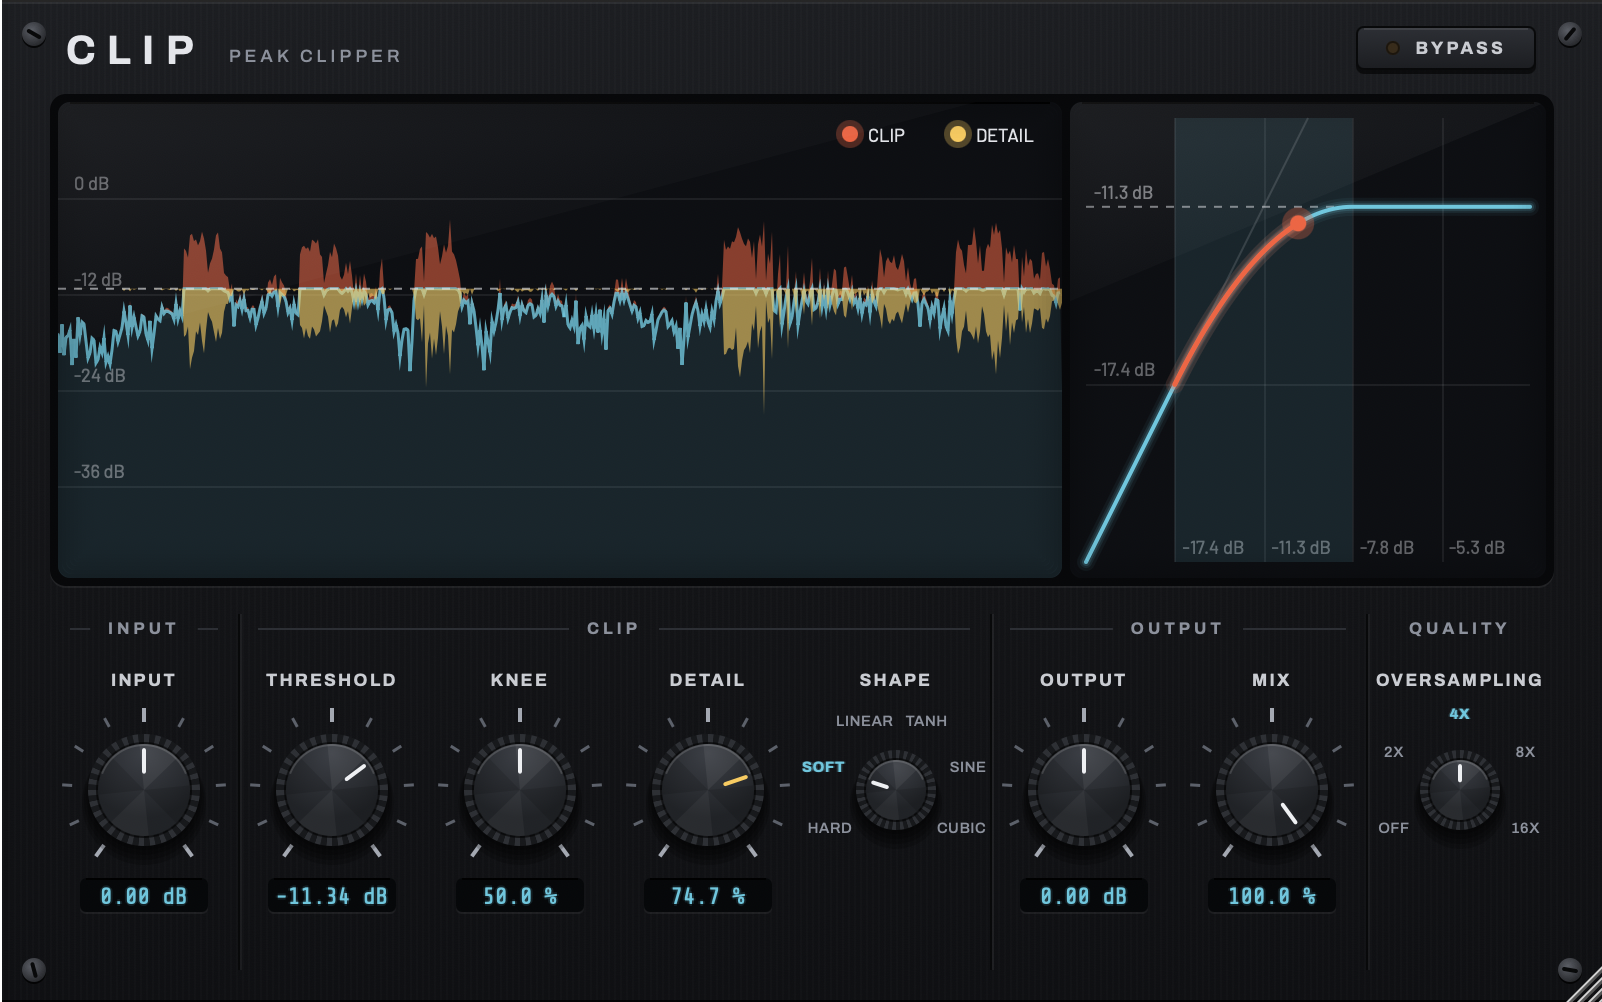
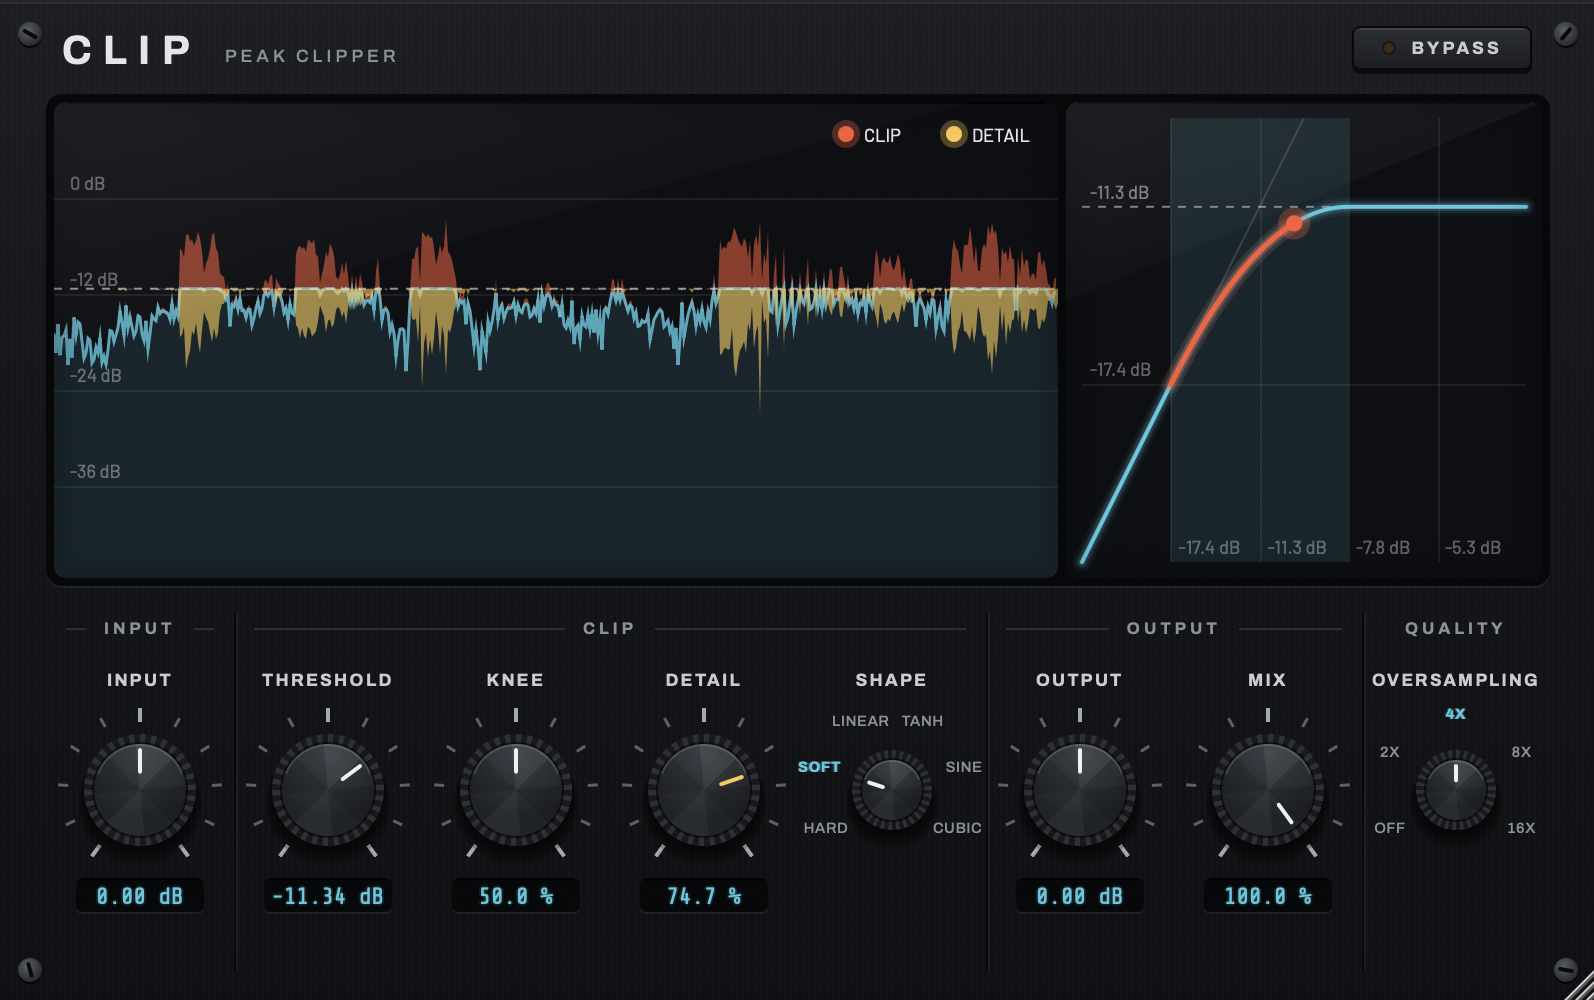
restructure projects tab into clickable cards with project subpages

diff --git a/src/components/Projects.jsx b/src/components/Projects.jsx
@@ -1,133 +1,39 @@
-import { useState } from "react"
-import eqThumb from "../assets/projects/eq.png?w=1000&format=webp"
-import clipThumb from "../assets/projects/clip.png?w=1000&format=webp"
-import cr02Thumb from "../assets/projects/cr02.png?w=1000&format=webp"
+import { Link } from "react-router-dom"
+import { projects } from "../data/projects"
 
 export default function Projects() {
-    const projects = [
-        {
-          title: "MixBusMaster: Learning EQ Plugin",
-          video: "https://www.loom.com/embed/d9443a8b08584f2babe589a8aa9ed656",
-          thumbnail: eqThumb,
-          paragraphs: [
-            "A 6 band EQ (AU/VST3) with a tilt filter, per band dynamics, and a two track spectrum analyzer. Its Learn mode listens to your track and a reference on the sidechain, then dials in the band settings that move your sound toward the reference.",
-            "Learn runs a small neural network I trained in PyTorch, inferenced with hand written C++ and no ML runtime, then refined with a Levenberg-Marquardt solver. Amount and Smooth controls re-run the match live. Built in C++20 with JUCE 8, with tests that assert the audio thread never allocates."
-          ]
-        },
-        {
-          title: "CLIP: Clipper Plugin",
-          video: "https://www.loom.com/embed/e48e8fe26f68457fa41ff63c34188500",
-          thumbnail: clipThumb,
-          paragraphs: [
-            "A hard/soft clipper (AU/VST3) with six transfer curves (Hard, Soft, Linear, Tanh, Sine, Cubic), adjustable knee, and a Detail control that keeps high end riding on clipped peaks. A live transfer curve and peak history display show exactly what is being clipped.",
-            "Aliasing is kept down with antiderivative antialiasing (ADAA) plus up to 16x linear phase oversampling, with Thiran allpass alignment so the dry/wet mix stays sample accurate. The DSP is header only and unit tested, and CI runs pluginval at strictness 10 on every push."
-          ]
-        },
-        {
-          title: "CR-02: Creative IR Convolution Plugin",
-          video: "https://www.loom.com/embed/c59c9b0de799436fa1f1c3f1953a0ecf",
-          thumbnail: cr02Thumb,
-          paragraphs: [
-            "An impulse response convolution plugin (AU/VST3) for reverbs and cabinet sims that also treats the IR as something to play with. Load any IR or pick from 46 built in ones, then reverse, stretch, chop, and degrade it to get textures that regular effects on the audio can't.",
-            "CHOP slices the IR into stutters, reverses, drops, and swaps, with seeded patterns that recall with the session and an optional BPM synced grid. AGE, SATURATE, WOBBLE, DOWNSAMPLE, and CRUSH degrade the IR itself. Every change rebuilds the IR off the audio thread with automatic loudness matching, so tweaking never causes level jumps."
-          ]
-        },
-        {
-          title: "CHOPPER: Sample Chopping Web App",
-          video: "https://samplechopper-umber.vercel.app",
-          link: "https://samplechopper-umber.vercel.app",
-          paragraphs: [
-            "A web app that turns full songs into ready to use loops. Upload audio, choose a bar length, and CHOPPER detects tempo and onsets, cuts bar accurate loops, and returns them as a zip.",
-            "The Python backend (FastAPI, librosa) estimates local BPM per loop and can snap loop boundaries to kicks and snares using band limited spectral flux. Jobs run in a rate limited queue on Render, with Supabase handling anonymous auth, job tracking, and storage. The React/TypeScript frontend features a custom 3D waveform renderer."
-          ]
-        },
-        {
-          title:"Synthesizer Plugin",
-          video: "https://www.youtube.com/embed/h5dY_hA8ZRw?si=jWCmTPnqDzYbA6Bx",
-          paragraphs: [
-            "This is a simple synthesizer VST/AU equipped with ADSR sliders, the usual oscillator and filter types, as well as frequency and filter modulation.",
-            "The video features a quick improvisation to demo some sounds of the synth. I also took the liberty of automating the synths' filter frequency and some panning!"
-          ]
-        },
-        {
-          title: "3D Spectrogram Visualizer",
-          video: "https://www.youtube.com/embed/WbGTJbrw83U?si=xbWaqE9aO7AsLnuJ",
-          paragraphs: [
-            "Created using Python (pydub for audio data, mpl_toolkits for modeling). The demo features an unmastered song of mine."
-          ]
-        },
-        {
-          title: "Denoising DNN for Acoustic Guitar",
-          video: "https://player.vimeo.com/video/1058779211?h=8370fcaaaa",
-          paragraphs: [
-            "I have developed and trained a neural network aimed to remove background and string noise from acoustic guitar recordings.",
-            "Its architecture consists of a convolution layer for feature extraction, BiLSTM for sequential modeling, and an attention layer.",
-            "It is trained on pairs of noisy and clean STFT data from recordings: This process was very involved with my limited computational resources and access to data: I mixed in string noise post recording to construct 100 noisy recordings and performed additional data augmentation with various impulse responses and background noise. While there is some success with this model, this should be done again with a unique dataset that is magnitudes larger to increase generalizability of the DNN."
-          ]
-        },
-        {
-          title:"Sampler",
-          video: "https://www.youtube.com/embed/YqVmvuLJy_k?si=WfnKxLKGuKfM3oRO",
-          paragraphs: [
-            "Straightforward stereo-supported plugin to play audio samples as an instrument, includes ADSR capabilities as well."
-          ]
-        }
-
-      ]
-
-   
     return (
-    <div className="flex flex-col gap-30 py-24 px-4 md:px-12 py-12">
-        {projects.map((project, i) => (
-        <div key={i} className="flex flex-col md:flex-row gap-8 items-start">
-            {/* video column */}
-            <div className="w-full md:w-1/2 aspect-video">
-            <ProjectVideo project={project} />
+    <div className="grid grid-cols-1 md:grid-cols-2 gap-8 max-w-6xl mx-auto py-24 px-4 md:px-12">
+        {projects.map((project) => (
+        <Link
+            key={project.slug}
+            to={`/projects/${project.slug}`}
+            className="group flex flex-col overflow-hidden rounded-2xl border border-white/10 bg-white/[0.03] transition duration-300 hover:-translate-y-1 hover:border-white/25 hover:bg-white/[0.06] hover:shadow-lg hover:shadow-black/40"
+        >
+            <CardThumbnail project={project} />
+            <div className="flex flex-col gap-3 p-6 flex-1">
+                <h2 className="text-xl font-bold text-gray-200">{project.title}</h2>
+                <p className="text-gray-400 text-sm line-clamp-3">{project.paragraphs[0]}</p>
+                <span className="mt-auto pt-2 text-sm text-gray-500 transition duration-300 group-hover:text-gray-200 group-hover:translate-x-1">
+                    View project &rarr;
+                </span>
             </div>
-
-            {/* text column */}
-            <div className="w-full md:w-1/2 flex flex-col gap-4">
-            <h2 className="text-xl font-bold text-gray-300">{project.title}</h2>
-            {project.link && (
-                <a href={project.link} target="_blank" rel="noopener noreferrer" className="text-gray-400 underline hover:text-gray-200">
-                Try it live
-                </a>
-            )}
-            {project.paragraphs.map((p, j) => (
-                <p key={j} className="text-gray-300 text-base">{p}</p>
-            ))}
-            </div>
-        </div>
+        </Link>
         ))}
     </div>
     )
 }
 
-function ProjectVideo({ project }) {
-    const [playing, setPlaying] = useState(false)
+function CardThumbnail({ project }) {
+    const image = project.preview ?? project.thumbnail
 
-    if (project.thumbnail && !playing) return (
-        <button
-            onClick={() => setPlaying(true)}
-            className="group relative w-full h-full rounded-lg overflow-hidden bg-neutral-900 cursor-pointer"
-            aria-label={`Play ${project.title} demo`}
-        >
-            <img src={project.thumbnail} alt={project.title} loading="lazy" className="w-full h-full object-contain" />
-            <span className="absolute inset-0 flex items-center justify-center bg-black/20 group-hover:bg-black/40 transition-colors">
-                <span className="w-16 h-16 rounded-full bg-white/90 flex items-center justify-center pl-1 text-2xl text-black">&#9654;</span>
-            </span>
-        </button>
+    if (!image) return (
+        <div className="aspect-video bg-gradient-to-br from-neutral-800 to-neutral-950" />
     )
 
     return (
-        <iframe
-            src={project.thumbnail ? `${project.video}?autoplay=1` : project.video}
-            loading="lazy"
-            width="200"
-            height="100"
-            className="w-full h-full rounded-lg"
-            allow="autoplay; fullscreen; picture-in-picture"
-            allowFullScreen
-        />
+        <div className="aspect-video overflow-hidden bg-neutral-900">
+            <img src={image} alt={project.title} loading="lazy" className="w-full h-full object-contain transition duration-500 group-hover:scale-105" />
+        </div>
     )
 }

diff --git a/src/data/projects.js b/src/data/projects.js
@@ -1,0 +1,87 @@
+import eqThumb from "../assets/projects/eq.png?w=1000&format=webp"
+import clipThumb from "../assets/projects/clip.png?w=1000&format=webp"
+import cr02Thumb from "../assets/projects/cr02.png?w=1000&format=webp"
+import chopperThumb from "../assets/projects/chopper.png?w=1000&format=webp"
+
+export const projects = [
+        {
+          slug: "mixbusmaster",
+          title: "MixBusMaster: Learning EQ Plugin",
+          video: "https://www.loom.com/embed/d9443a8b08584f2babe589a8aa9ed656",
+          thumbnail: eqThumb,
+          paragraphs: [
+            "A 6 band EQ (AU/VST3) with a tilt filter, per band dynamics, and a two track spectrum analyzer. Its Learn mode listens to your track and a reference on the sidechain, then dials in the band settings that move your sound toward the reference.",
+            "Learn runs a small neural network I trained in PyTorch, inferenced with hand written C++ and no ML runtime, then refined with a Levenberg-Marquardt solver. Amount and Smooth controls re-run the match live. Built in C++20 with JUCE 8, with tests that assert the audio thread never allocates."
+          ]
+        },
+        {
+          slug: "clip",
+          title: "CLIP: Clipper Plugin",
+          video: "https://www.loom.com/embed/e48e8fe26f68457fa41ff63c34188500",
+          thumbnail: clipThumb,
+          paragraphs: [
+            "A hard/soft clipper (AU/VST3) with six transfer curves (Hard, Soft, Linear, Tanh, Sine, Cubic), adjustable knee, and a Detail control that keeps high end riding on clipped peaks. A live transfer curve and peak history display show exactly what is being clipped.",
+            "Aliasing is kept down with antiderivative antialiasing (ADAA) plus up to 16x linear phase oversampling, with Thiran allpass alignment so the dry/wet mix stays sample accurate. The DSP is header only and unit tested, and CI runs pluginval at strictness 10 on every push."
+          ]
+        },
+        {
+          slug: "cr-02",
+          title: "CR-02: Creative IR Convolution Plugin",
+          video: "https://www.loom.com/embed/c59c9b0de799436fa1f1c3f1953a0ecf",
+          thumbnail: cr02Thumb,
+          paragraphs: [
+            "An impulse response convolution plugin (AU/VST3) for reverbs and cabinet sims that also treats the IR as something to play with. Load any IR or pick from 46 built in ones, then reverse, stretch, chop, and degrade it to get textures that regular effects on the audio can't.",
+            "CHOP slices the IR into stutters, reverses, drops, and swaps, with seeded patterns that recall with the session and an optional BPM synced grid. AGE, SATURATE, WOBBLE, DOWNSAMPLE, and CRUSH degrade the IR itself. Every change rebuilds the IR off the audio thread with automatic loudness matching, so tweaking never causes level jumps."
+          ]
+        },
+        {
+          slug: "chopper",
+          title: "CHOPPER: Sample Chopping Web App",
+          video: "https://samplechopper-umber.vercel.app",
+          link: "https://samplechopper-umber.vercel.app",
+          preview: chopperThumb,
+          paragraphs: [
+            "A web app that turns full songs into ready to use loops. Upload audio, choose a bar length, and CHOPPER detects tempo and onsets, cuts bar accurate loops, and returns them as a zip.",
+            "The Python backend (FastAPI, librosa) estimates local BPM per loop and can snap loop boundaries to kicks and snares using band limited spectral flux. Jobs run in a rate limited queue on Render, with Supabase handling anonymous auth, job tracking, and storage. The React/TypeScript frontend features a custom 3D waveform renderer."
+          ]
+        },
+        {
+          slug: "synthesizer",
+          title:"Synthesizer Plugin",
+          video: "https://www.youtube.com/embed/h5dY_hA8ZRw?si=jWCmTPnqDzYbA6Bx",
+          thumbnail: "https://img.youtube.com/vi/h5dY_hA8ZRw/hqdefault.jpg",
+          paragraphs: [
+            "This is a simple synthesizer VST/AU equipped with ADSR sliders, the usual oscillator and filter types, as well as frequency and filter modulation.",
+            "The video features a quick improvisation to demo some sounds of the synth. I also took the liberty of automating the synths' filter frequency and some panning!"
+          ]
+        },
+        {
+          slug: "spectrogram-visualizer",
+          title: "3D Spectrogram Visualizer",
+          video: "https://www.youtube.com/embed/WbGTJbrw83U?si=xbWaqE9aO7AsLnuJ",
+          thumbnail: "https://img.youtube.com/vi/WbGTJbrw83U/hqdefault.jpg",
+          paragraphs: [
+            "Created using Python (pydub for audio data, mpl_toolkits for modeling). The demo features an unmastered song of mine."
+          ]
+        },
+        {
+          slug: "denoising-dnn",
+          title: "Denoising DNN for Acoustic Guitar",
+          video: "https://player.vimeo.com/video/1058779211?h=8370fcaaaa",
+          paragraphs: [
+            "I have developed and trained a neural network aimed to remove background and string noise from acoustic guitar recordings.",
+            "Its architecture consists of a convolution layer for feature extraction, BiLSTM for sequential modeling, and an attention layer.",
+            "It is trained on pairs of noisy and clean STFT data from recordings: This process was very involved with my limited computational resources and access to data: I mixed in string noise post recording to construct 100 noisy recordings and performed additional data augmentation with various impulse responses and background noise. While there is some success with this model, this should be done again with a unique dataset that is magnitudes larger to increase generalizability of the DNN."
+          ]
+        },
+        {
+          slug: "sampler",
+          title:"Sampler",
+          video: "https://www.youtube.com/embed/YqVmvuLJy_k?si=WfnKxLKGuKfM3oRO",
+          thumbnail: "https://img.youtube.com/vi/YqVmvuLJy_k/hqdefault.jpg",
+          paragraphs: [
+            "Straightforward stereo-supported plugin to play audio samples as an instrument, includes ADSR capabilities as well."
+          ]
+        }
+
+      ]

diff --git a/src/pages/ProjectDetailPage.jsx b/src/pages/ProjectDetailPage.jsx
@@ -1,0 +1,35 @@
+import { useEffect } from "react"
+import { Link, Navigate, useParams } from "react-router-dom"
+import { projects } from "../data/projects"
+import ProjectVideo from "../components/ProjectVideo"
+
+export default function ProjectDetailPage() {
+    const { slug } = useParams()
+    const project = projects.find((p) => p.slug === slug)
+
+    useEffect(() => {
+        window.scrollTo(0, 0)
+    }, [slug])
+
+    if (!project) return <Navigate to="/projects" replace />
+
+    return (
+    <div className="flex flex-col gap-8 max-w-4xl mx-auto py-24 px-4 md:px-12">
+        <Link to="/projects" className="text-sm text-gray-500 hover:text-gray-200 transition-colors">
+            &larr; All projects
+        </Link>
+        <h1 className="text-2xl font-bold text-gray-200">{project.title}</h1>
+        <div className="w-full aspect-video">
+            <ProjectVideo project={project} />
+        </div>
+        {project.link && (
+            <a href={project.link} target="_blank" rel="noopener noreferrer" className="text-gray-400 underline hover:text-gray-200">
+            Try it live
+            </a>
+        )}
+        {project.paragraphs.map((p, j) => (
+            <p key={j} className="text-gray-300 text-base">{p}</p>
+        ))}
+    </div>
+    )
+}

diff --git a/src/components/ProjectVideo.jsx b/src/components/ProjectVideo.jsx
@@ -1,0 +1,30 @@
+import { useState } from "react"
+
+export default function ProjectVideo({ project }) {
+    const [playing, setPlaying] = useState(false)
+
+    if (project.thumbnail && !playing) return (
+        <button
+            onClick={() => setPlaying(true)}
+            className="group relative w-full h-full rounded-lg overflow-hidden bg-neutral-900 cursor-pointer"
+            aria-label={`Play ${project.title} demo`}
+        >
+            <img src={project.thumbnail} alt={project.title} loading="lazy" className="w-full h-full object-contain" />
+            <span className="absolute inset-0 flex items-center justify-center bg-black/20 group-hover:bg-black/40 transition-colors">
+                <span className="w-16 h-16 rounded-full bg-white/90 flex items-center justify-center pl-1 text-2xl text-black">&#9654;</span>
+            </span>
+        </button>
+    )
+
+    return (
+        <iframe
+            src={project.thumbnail ? `${project.video}${project.video.includes("?") ? "&" : "?"}autoplay=1` : project.video}
+            loading="lazy"
+            width="200"
+            height="100"
+            className="w-full h-full rounded-lg"
+            allow="autoplay; fullscreen; picture-in-picture"
+            allowFullScreen
+        />
+    )
+}

diff --git a/src/App.jsx b/src/App.jsx
@@ -14,6 +14,7 @@ import AboutPage from './pages/AboutPage'
 import MusicPage from './pages/MusicPage'
 import ResumePage from './pages/ResumePage'
 import GalleryPage from './pages/GalleryPage'
+import ProjectDetailPage from './pages/ProjectDetailPage'
 
 
 
@@ -29,6 +30,7 @@ function App() {
             <Route path="/" element={<Home/>}/>
             <Route path="/about" element={<AboutPage/>}/>
             <Route path="/projects" element={<ProjectsPage/>}/>
+            <Route path="/projects/:slug" element={<ProjectDetailPage/>}/>
             <Route path="/music" element={<MusicPage/>}/>
             <Route path="/resume" element={<ResumePage/>}/>
             <Route path="/gallery" element={<GalleryPage/>}/>
